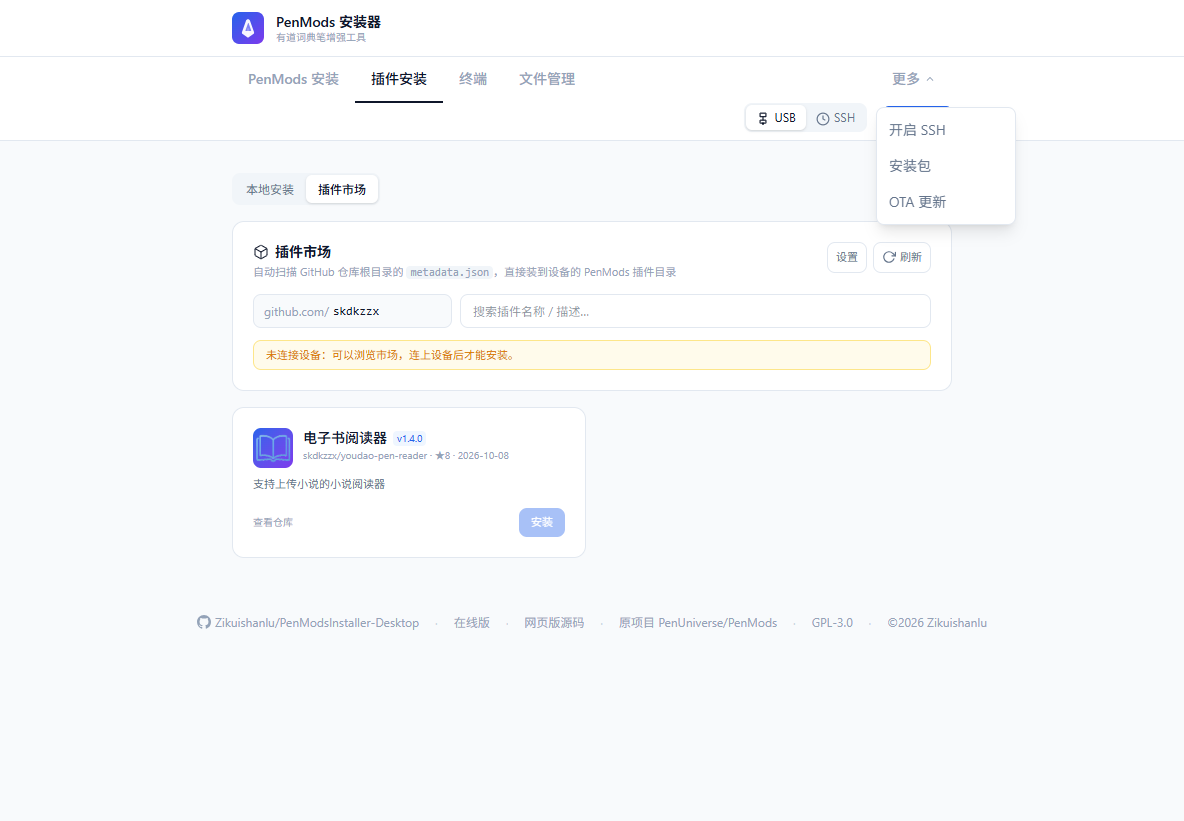
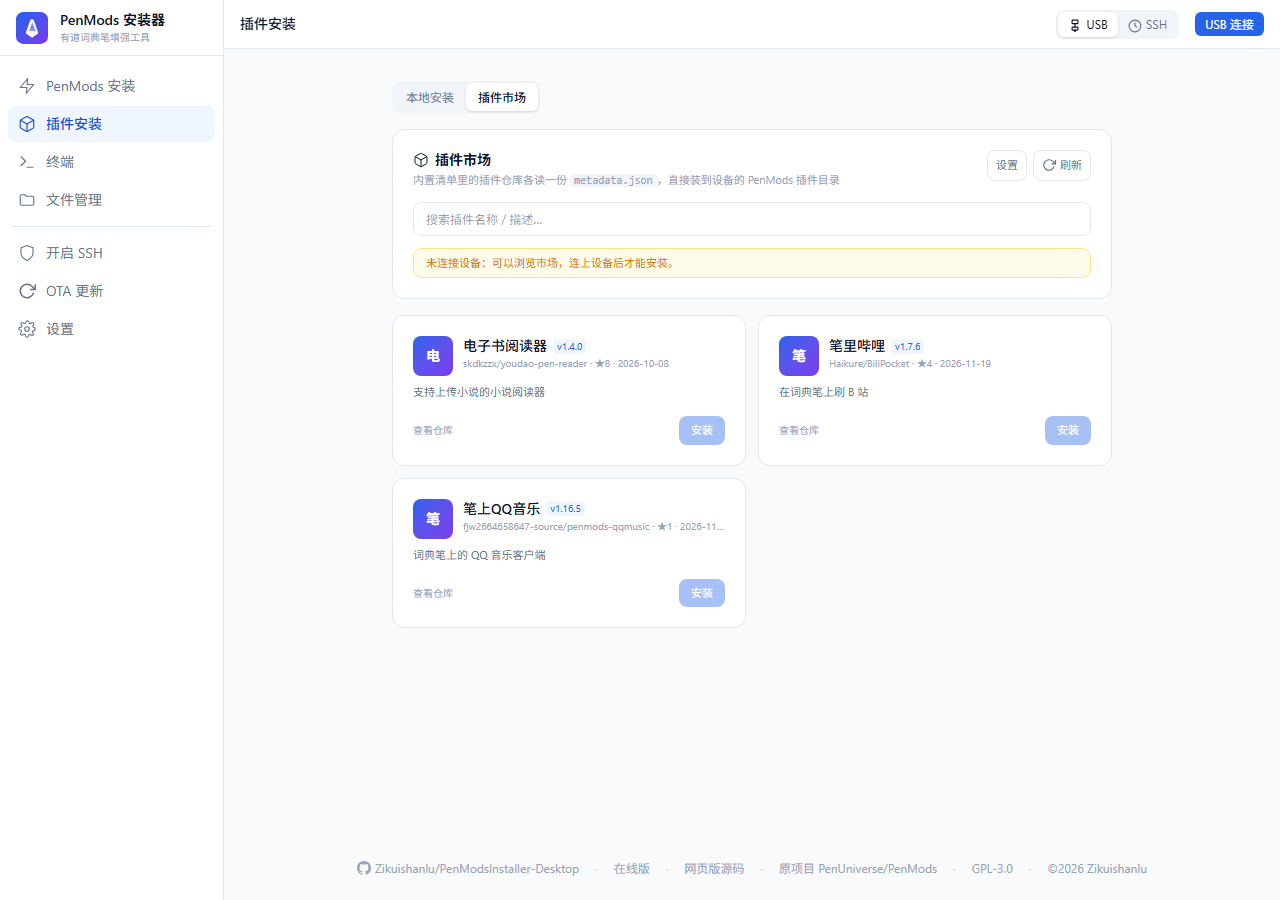
feat(market)!: 插件市场只展示内置清单里的三个仓库，去掉市场源设置

diff --git a/app/src/pages/PluginMarket/index.tsx b/app/src/pages/PluginMarket/index.tsx
@@ -3,7 +3,7 @@ import type { DeviceConnection } from '../../lib/device';
 import {
   discoverPlugins, type MarketPlugin,
 } from '../../lib/market';
-import { downloadBytes, getOwner, setOwner, getToken, setToken, listInstalledPluginDirs } from '../../lib/github';
+import { downloadBytes, getToken, setToken, listInstalledPluginDirs } from '../../lib/github';
 import { installPluginBytes, type InstallStage } from '../../lib/market-install';
 import { IconRefresh, IconPackage, IconCheck } from '../../components/icons';
 
@@ -30,8 +30,6 @@ function fmtDate(iso: string): string {
 }
 
 export function PluginMarket({ conn, connected, onLog }: PluginMarketProps) {
-  const [owner, setOwnerState] = useState(getOwner);
-  const [ownerInput, setOwnerInput] = useState(getOwner);
   const [query, setQuery] = useState('');
   const [items, setItems] = useState<MarketPlugin[] | null>(null);
   const [loading, setLoading] = useState(false);
@@ -53,12 +51,12 @@ export function PluginMarket({ conn, connected, onLog }: PluginMarketProps) {
     }
   }, [connected, conn]);
 
-  const load = useCallback(async (force: boolean, forOwner: string) => {
+  const load = useCallback(async (force: boolean) => {
     setLoading(true); setError(null);
     try {
-      const list = await discoverPlugins(forOwner, force, msg => onLog(msg));
+      const list = await discoverPlugins(force, msg => onLog(msg));
       setItems(list);
-      onLog(`插件市场：@${forOwner} 共发现 ${list.length} 个插件`);
+      onLog(`插件市场：共发现 ${list.length} 个插件`);
     } catch (e) {
       setError(e instanceof Error ? e.message : String(e));
       setItems([]);
@@ -67,15 +65,8 @@ export function PluginMarket({ conn, connected, onLog }: PluginMarketProps) {
     }
   }, [onLog]);
 
-  useEffect(() => { void load(false, owner); }, []); // eslint-disable-line react-hooks/exhaustive-deps
+  useEffect(() => { void load(false); }, []); // eslint-disable-line react-hooks/exhaustive-deps
   useEffect(() => { void refreshInstalled(); }, [refreshInstalled]);
-
-  const applyOwner = () => {
-    const v = ownerInput.trim().replace(/^@/, '').replace(/^https?:\/\/github\.com\//i, '').replace(/\/.*$/, '');
-    if (!v) return;
-    setOwner(v); setOwnerState(v);
-    void load(true, v);
-  };
 
   const doInstall = async (p: MarketPlugin) => {
     if (!conn || !connected) { setError('请先连接设备（USB 或 SSH）'); return; }
@@ -132,7 +123,7 @@ export function PluginMarket({ conn, connected, onLog }: PluginMarketProps) {
               <IconPackage className="w-4 h-4" /> 插件市场
             </h2>
             <p className="text-[11px] text-[#94a3b8] mt-0.5">
-              自动扫描 GitHub 仓库根目录的 <code className="bg-[#f1f5f9] px-1 rounded">metadata.json</code>，直接装到设备的 PenMods 插件目录
+              内置清单里的插件仓库各读一份 <code className="bg-[#f1f5f9] px-1 rounded">metadata.json</code>，直接装到设备的 PenMods 插件目录
             </p>
           </div>
           <div className="flex items-center gap-1.5 flex-shrink-0">
@@ -140,7 +131,7 @@ export function PluginMarket({ conn, connected, onLog }: PluginMarketProps) {
               className="text-[11px] px-2 py-1.5 border border-[#e2e8f0] rounded-lg text-[#64748b] hover:bg-[#f8fafc]">
               设置
             </button>
-            <button onClick={() => void load(true, owner)} disabled={loading}
+            <button onClick={() => void load(true)} disabled={loading}
               className="text-[11px] px-2 py-1.5 border border-[#e2e8f0] rounded-lg text-[#64748b] hover:bg-[#f8fafc] flex items-center gap-1 disabled:opacity-50">
               {loading ? <Spinner /> : <IconRefresh className="w-3.5 h-3.5" />} 刷新
             </button>
@@ -148,13 +139,6 @@ export function PluginMarket({ conn, connected, onLog }: PluginMarketProps) {
         </div>
 
         <div className="flex flex-col sm:flex-row gap-2">
-          <div className="flex items-center bg-[#f8fafc] border border-[#e2e8f0] rounded-lg px-2.5 flex-shrink-0">
-            <span className="text-xs text-[#94a3b8]">github.com/</span>
-            <input value={ownerInput} onChange={e => setOwnerInput(e.target.value)}
-              onKeyDown={e => { if (e.key === 'Enter') applyOwner(); }}
-              className="bg-transparent px-1 py-2 text-xs outline-none w-28 font-mono text-[#0f172a]"
-              placeholder="用户名" />
-          </div>
           <input value={query} onChange={e => setQuery(e.target.value)}
             placeholder="搜索插件名称 / 描述…"
             className="flex-1 px-3 py-2 text-xs border border-[#e2e8f0] rounded-lg outline-none focus:border-[#2563eb]" />
@@ -199,13 +183,13 @@ export function PluginMarket({ conn, connected, onLog }: PluginMarketProps) {
       {/* 列表 */}
       {loading && !items && (
         <div className="card p-8 text-center text-xs text-[#94a3b8] flex items-center justify-center gap-2">
-          <Spinner /> 正在扫描 @{owner} 的仓库…
+          <Spinner /> 正在读取内置插件清单…
         </div>
       )}
 
       {filtered && filtered.length === 0 && !loading && (
         <div className="card p-6 space-y-3">
-          <p className="text-sm font-medium text-[#0f172a]">@{owner} 下没有发现 PenMods 插件</p>
+          <p className="text-sm font-medium text-[#0f172a]">内置清单里暂时没有可用的插件</p>
           <p className="text-[11px] text-[#64748b] leading-relaxed">
             插件市场通过仓库里的 <code className="bg-[#f1f5f9] px-1 rounded">metadata.json</code> 识别插件。
             把你的插件推送到 GitHub，并在仓库根目录（或 plugin/、src/ 子目录）放一个 metadata.json 即可：
@@ -220,7 +204,8 @@ export function PluginMarket({ conn, connected, onLog }: PluginMarketProps) {
   "main_qml": "main.qml"
 }`}</pre>
           <p className="text-[11px] text-[#94a3b8]">
-            提示：换成自己的用户名试试，或点「设置」用 ZIP 直链安装。当前源：@{owner}
+            想加插件就把它加到 <code className="bg-[#f1f5f9] px-1 rounded">app/src/lib/market.ts</code> 的
+            <code className="bg-[#f1f5f9] px-1 rounded">FEATURED_PLUGINS</code>；也可以点「设置」用 ZIP 直链安装。
           </p>
         </div>
       )}

diff --git a/app/src/pages/Settings/index.tsx b/app/src/pages/Settings/index.tsx
@@ -1,5 +1,5 @@
 import { useEffect, useState, type ReactNode } from 'react';
-import { ghGet, getOwner, getToken, setOwner, setToken } from '../../lib/github';
+import { ghGet, getToken, setToken } from '../../lib/github';
 import { BRAND } from '../../lib/branding';
 import { checkInstallerUpdate, type UpdateCheck } from '../../lib/updates';
 import {
@@ -8,7 +8,7 @@ import {
 
 /**
  * 设置页：把原先散落在各页的设置集中到这里
- *   1. GitHub 访问（Token / 默认市场源）
+ *   1. GitHub 访问（Token / 限额）
  *   2. 设备连接（默认连接方式、SSH 主机与端口）
  *   3. 本地数据（清除本应用写入的 localStorage）
  *   4. 关于（版本与链接）
@@ -17,7 +17,6 @@ import {
 /** 本应用写入 localStorage 的全部 key —— 清除缓存按这个白名单来，不碰别人的数据 */
 const LOCAL_KEYS = [
   'gh_token',
-  'market_owner',
   'connMode',
   'sshHost',
   'sshPort',
@@ -72,8 +71,6 @@ export function Settings(props: SettingsProps) {
   const [token, setTokenState] = useState(getToken);
   const [showToken, setShowToken] = useState(false);
   const [tokenMsg, setTokenMsg] = useState<{ kind: 'ok' | 'error'; text: string } | null>(null);
-  const [owner, setOwnerState] = useState(getOwner);
-  const [ownerMsg, setOwnerMsg] = useState<string | null>(null);
   const [rate, setRate] = useState<{ remaining: number; limit: number } | null>(null);
   const [checking, setChecking] = useState(false);
   // 关于
@@ -162,21 +159,15 @@ export function Settings(props: SettingsProps) {
     }
   };
 
-  const saveOwner = () => {
-    setOwner(owner);
-    setOwnerMsg('已保存，市场页刷新后生效');
-  };
-
   const clearLocal = () => {
     const ok = window.confirm(
-      '清除本应用保存在本机的设置？\n\n会清掉：GitHub Token、默认市场源、默认连接方式、SSH 主机与端口、两个市场的页签记忆。\n（不会动设备上的任何文件，也不会清安装日志）',
+      '清除本应用保存在本机的设置？\n\n会清掉：GitHub Token、默认连接方式、SSH 主机与端口、页签记忆。\n（不会动设备上的任何文件，也不会清安装日志）',
     );
     if (!ok) return;
     for (const key of LOCAL_KEYS) {
       try { localStorage.removeItem(key); } catch { /* 隐私模式 */ }
     }
     setTokenState('');
-    setOwnerState('');
     setRate(null);
     setCleared(true);
   };
@@ -199,7 +190,7 @@ export function Settings(props: SettingsProps) {
       {/* ── GitHub 访问 ── */}
       <Card
         title="GitHub 访问"
-        desc="市场页要读 GitHub API。未配置 Token 时匿名限额 60 次/小时，扫描多个仓库时容易触发限流。"
+        desc="插件市场要读 GitHub API。未配置 Token 时匿名限额 60 次/小时，刷新频繁时容易触发限流。"
         icon={<IconShield className="w-4 h-4" />}
       >
         <div className="space-y-2">
@@ -251,29 +242,6 @@ export function Settings(props: SettingsProps) {
           </p>
         </div>
 
-        <div className="space-y-2 pt-1">
-          <label className="text-[10px] text-[#94a3b8] block">默认市场源（GitHub 用户名）</label>
-          <div className="flex gap-2">
-            <div className="flex items-center flex-1 bg-[#f8fafc] border border-[#e2e8f0] rounded-lg px-2.5">
-              <span className="text-xs text-[#94a3b8] flex-shrink-0">github.com/</span>
-              <input
-                value={owner}
-                onChange={(e) => { setOwnerState(e.target.value); setOwnerMsg(null); }}
-                onKeyDown={(e) => { if (e.key === 'Enter') saveOwner(); }}
-                placeholder="skdkzzx"
-                spellCheck={false}
-                className="flex-1 bg-transparent px-1 py-2 text-xs outline-none font-mono text-[#0f172a]"
-              />
-            </div>
-            <button
-              onClick={saveOwner}
-              className="text-[11px] px-3 py-2 border border-[#e2e8f0] rounded-lg text-[#0f172a] hover:bg-[#f8fafc] flex-shrink-0"
-            >
-              保存
-            </button>
-          </div>
-          {ownerMsg && <p className="text-[10px] text-[#15803d]">{ownerMsg}</p>}
-        </div>
       </Card>
 
       {/* ── 设备连接 ── */}
@@ -348,7 +316,7 @@ export function Settings(props: SettingsProps) {
             <IconTrash className="w-3.5 h-3.5" /> 清除本地设置
           </button>
           <span className="text-[10px] text-[#94a3b8]">
-            GitHub Token / 市场源 / 连接方式 / SSH 地址 / 页签记忆
+            GitHub Token / 连接方式 / SSH 地址 / 页签记忆
           </span>
         </div>
         {cleared && (

diff --git a/app/src/lib/market.ts b/app/src/lib/market.ts
@@ -1,12 +1,13 @@
 /**
- * 插件市场：自动发现用户仓库里的 metadata.json（PenMods 插件清单）
+ * 插件市场：读取内置清单里各仓库的 metadata.json（PenMods 插件清单）
  *
+ * 市场内容 = FEATURED_PLUGINS 里的仓库（不再扫某个账号下的全部仓库）。
  * GitHub 没有插件话题（topics）时，只能靠内容识别，因此这里做了两级探测：
  *   1. 仓库根目录 metadata.json
  *   2. 一级子目录（plugin/ plugins/ src/ app/）里的 metadata.json
  */
 import {
-  listRepos, getRepo, listContents, readRepoText, rawUrl, repoZipUrl,
+  getRepo, listContents, readRepoText, rawUrl, repoZipUrl,
   type GhRepo, type GhContent,
 } from './github';
 import type { PluginMeta } from './plugin-install';
@@ -138,34 +139,34 @@ async function inspectPlugin(owner: string, repo: GhRepo): Promise<MarketPlugin 
 }
 
 export async function discoverPlugins(
-  owner: string,
   force = false,
   onProgress?: (msg: string) => void,
 ): Promise<MarketPlugin[]> {
-  const cached = pluginCache.get(owner);
+  const cacheKey = 'featured';
+  const cached = pluginCache.get(cacheKey);
   if (!force && cached && Date.now() - cached.at < CACHE_TTL) return cached.data;
 
-  onProgress?.(`正在列出 @${owner} 的仓库…`);
-  const repos = await listRepos(owner);
-  onProgress?.(`共 ${repos.length} 个仓库，正在识别插件…`);
-  const found = await mapLimit(repos, 4, r => inspectPlugin(owner, r));
-
-  // 内置推荐仓库：可能属于别的作者，单独取仓库信息后再探测
-  const featured = await mapLimit(FEATURED_PLUGINS, 3, async spec => {
+  onProgress?.(`正在读取内置插件清单（${FEATURED_PLUGINS.length} 个仓库）…`);
+  const failures: string[] = [];
+  const found = await mapLimit(FEATURED_PLUGINS, 3, async (spec) => {
     const [o, name] = spec.split('/');
     if (!o || !name) return null;
     try {
       return await inspectPlugin(o, await getRepo(o, name));
-    } catch {
+    } catch (e) {
+      failures.push(`${spec}：${e instanceof Error ? e.message : String(e)}`);
       return null;
     }
   });
 
-  const seen = new Set<string>();
-  const data = [...found, ...featured]
+  // 全部仓库都没读成功时不要假装「市场是空的」——把原因抛出去，页面才能显示错误
+  if (failures.length >= FEATURED_PLUGINS.length) {
+    throw new Error(`读不到内置插件清单，${failures.length} 个仓库全部失败。${failures[0]}`);
+  }
+
+  const data = found
     .filter((x): x is MarketPlugin => !!x)
-    .filter(x => (seen.has(x.key) ? false : (seen.add(x.key), true)))
     .sort((a, b) => b.stars - a.stars || a.name.localeCompare(b.name));
-  pluginCache.set(owner, { at: Date.now(), data });
+  pluginCache.set(cacheKey, { at: Date.now(), data });
   return data;
 }

diff --git a/app/src/lib/github.ts b/app/src/lib/github.ts
@@ -6,23 +6,15 @@
  */
 import { PLUGINS_DIR } from './plugin-install';
 
-export const DEFAULT_OWNER = 'skdkzzx';
 export const OTA_REPO = { owner: 'Lyrecoul', repo: 'penmods-ota' };
 
 const TOKEN_KEY = 'gh_token';
-const OWNER_KEY = 'market_owner';
 
 export function getToken(): string {
   try { return localStorage.getItem(TOKEN_KEY) || ''; } catch { return ''; }
 }
 export function setToken(t: string) {
   try { t ? localStorage.setItem(TOKEN_KEY, t.trim()) : localStorage.removeItem(TOKEN_KEY); } catch { /* 隐私模式 */ }
-}
-export function getOwner(): string {
-  try { return (localStorage.getItem(OWNER_KEY) || DEFAULT_OWNER).trim() || DEFAULT_OWNER; } catch { return DEFAULT_OWNER; }
-}
-export function setOwner(o: string) {
-  try { localStorage.setItem(OWNER_KEY, o.trim() || DEFAULT_OWNER); } catch { /* noop */ }
 }
 
 export class GhError extends Error {
@@ -107,24 +99,11 @@ export interface GhRelease {
 }
 
 /** 列出用户仓库（最多 200 个，按最近推送排序） */
-export async function listRepos(owner: string): Promise<GhRepo[]> {
-  const out: GhRepo[] = [];
-  for (const page of [1, 2]) {
-    const batch = await ghGet<GhRepo[]>(
-      `/users/${owner}/repos?per_page=100&page=${page}&sort=pushed&type=owner`,
-    );
-    out.push(...batch.filter(r => !r.fork));
-    if (batch.length < 100) break;
-  }
-  return out.filter(r => !r.archived);
-}
-
 /** 取单个仓库信息（用于内置推荐仓库，owner 可能和市场源不同） */
 export async function getRepo(owner: string, repo: string): Promise<GhRepo> {
   return ghGet<GhRepo>(`/repos/${owner}/${repo}`);
 }
 
-/** 列出仓库某个目录 */
 export async function listContents(owner: string, repo: string, path = ''): Promise<GhContent[]> {
   const p = `/repos/${owner}/${repo}/contents/${path.replace(/^\/+/, '')}`;
   const data = await ghGet<GhContent[] | GhContent>(p);

diff --git a/README.md b/README.md
@@ -155,7 +155,8 @@ npm run dist:portable  # 产出免安装单文件：PenMods-Installer-Portable-<
 
 ## 插件市场怎么认插件
 
-扫描指定账号下的仓库，命中以下任意一处即认为是一个插件（另外还会固定扫描下面这几个推荐仓库）：
+市场**只读内置清单里的仓库**（`app/src/lib/market.ts` 的 `FEATURED_PLUGINS`），不再按账号扫描。
+每个仓库命中以下任意一处即认为是一个插件：
 
 - 仓库根目录的 `metadata.json`
 - 一级子目录 `plugin/`、`plugins/`、`src/`、`app/`、`source/` 里的 `metadata.json`（跳过「源码」目录）
@@ -178,9 +179,9 @@ npm run dist:portable  # 产出免安装单文件：PenMods-Installer-Portable-<
 安装目录名依次取：`icon` 里的 `plugins/<名字>/` → `id` 最后一段 → 仓库名。
 所以**想控制装到哪个目录，就把 `icon` 写成 `.../plugins/<你要的目录名>/icon.png`**。
 
-### 内置推荐仓库
+### 内置插件清单
 
-市场除了扫描「默认市场源」那个账号的全部仓库，还固定扫描这几个插件仓库（来自不同作者，改市场源也不影响）：
+市场内容就是这三个仓库（来自不同作者）：
 
 | 仓库 | 插件 |
 | --- | --- |
@@ -188,7 +189,8 @@ npm run dist:portable  # 产出免安装单文件：PenMods-Installer-Portable-<
 | [Haikure/BiliPocket](https://github.com/Haikure/BiliPocket) | BiliPocket（B 站客户端） |
 | [fjw2664658647-source/penmods-qqmusic](https://github.com/fjw2664658647-source/penmods-qqmusic) | QQ 音乐 |
 
-清单在 `app/src/lib/market.ts` 的 `FEATURED_PLUGINS` 里，想加减直接改这个数组。
+清单在 `app/src/lib/market.ts` 的 `FEATURED_PLUGINS` 里，想加减直接改这个数组，市场里就会多/少一个插件。
+安装器只通过 GitHub API 读这些仓库的 `metadata.json` 和目录结构去装插件，不会修改仓库内容。
 
 ## OTA 更新
 

diff --git a/CHANGELOG.md b/CHANGELOG.md
@@ -10,10 +10,11 @@
 
 新增
 
-- **插件市场内置推荐仓库**：除了扫「默认市场源」那个账号，还固定扫描
+- **插件市场改为「内置清单」模式**：市场只展示清单里的三个仓库 ——
   `skdkzzx/youdao-pen-reader`（电子书阅读器）、`Haikure/BiliPocket`（笔里哔哩）、
-  `fjw2664658647-source/penmods-qqmusic`（笔上QQ音乐），三个来自不同作者的插件不必改市场源就能看到，
-  清单在 `app/src/lib/market.ts` 的 `FEATURED_PLUGINS`。
+  `fjw2664658647-source/penmods-qqmusic`（笔上QQ音乐），不再按账号扫描全部仓库；
+  清单在 `app/src/lib/market.ts` 的 `FEATURED_PLUGINS`，加减插件改这个数组即可。
+  设置里随之去掉「默认市场源」输入（`setOwner`/`getOwner` 一并删除，`market_owner` 不再使用）。
 
 - **删掉「安装包」模块**（侧边栏「安装包」入口、上传安装页、安装包市场一起）：
   连带删除 `src/pages/AppStore`、`src/pages/AppsMarket`、`src/lib/app-store.ts`，
